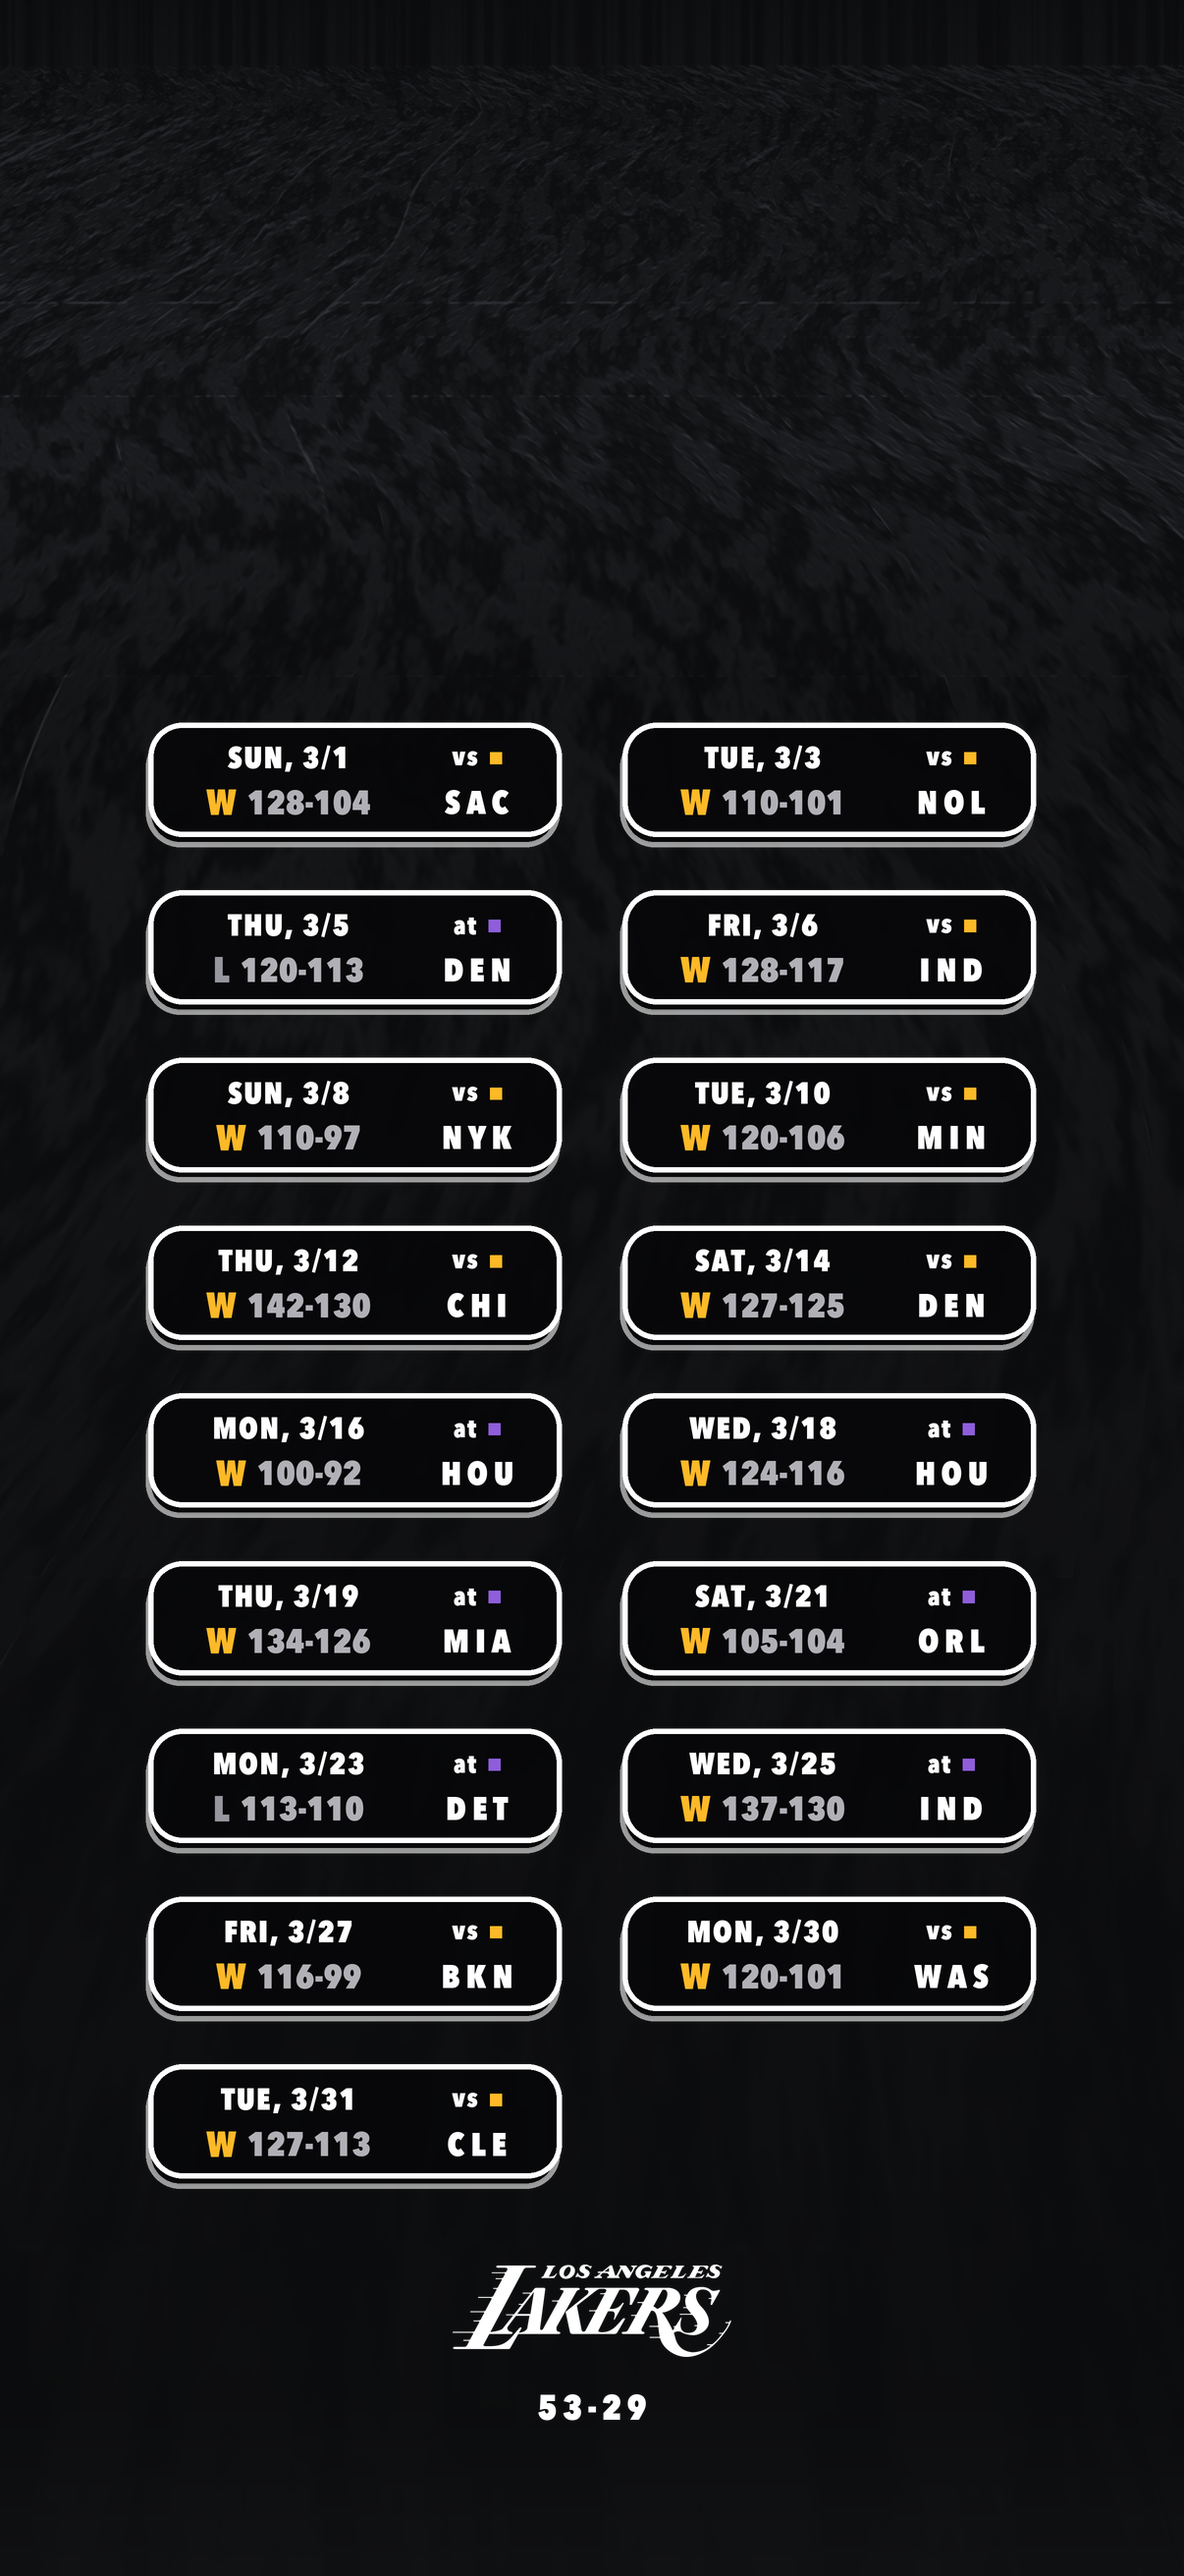
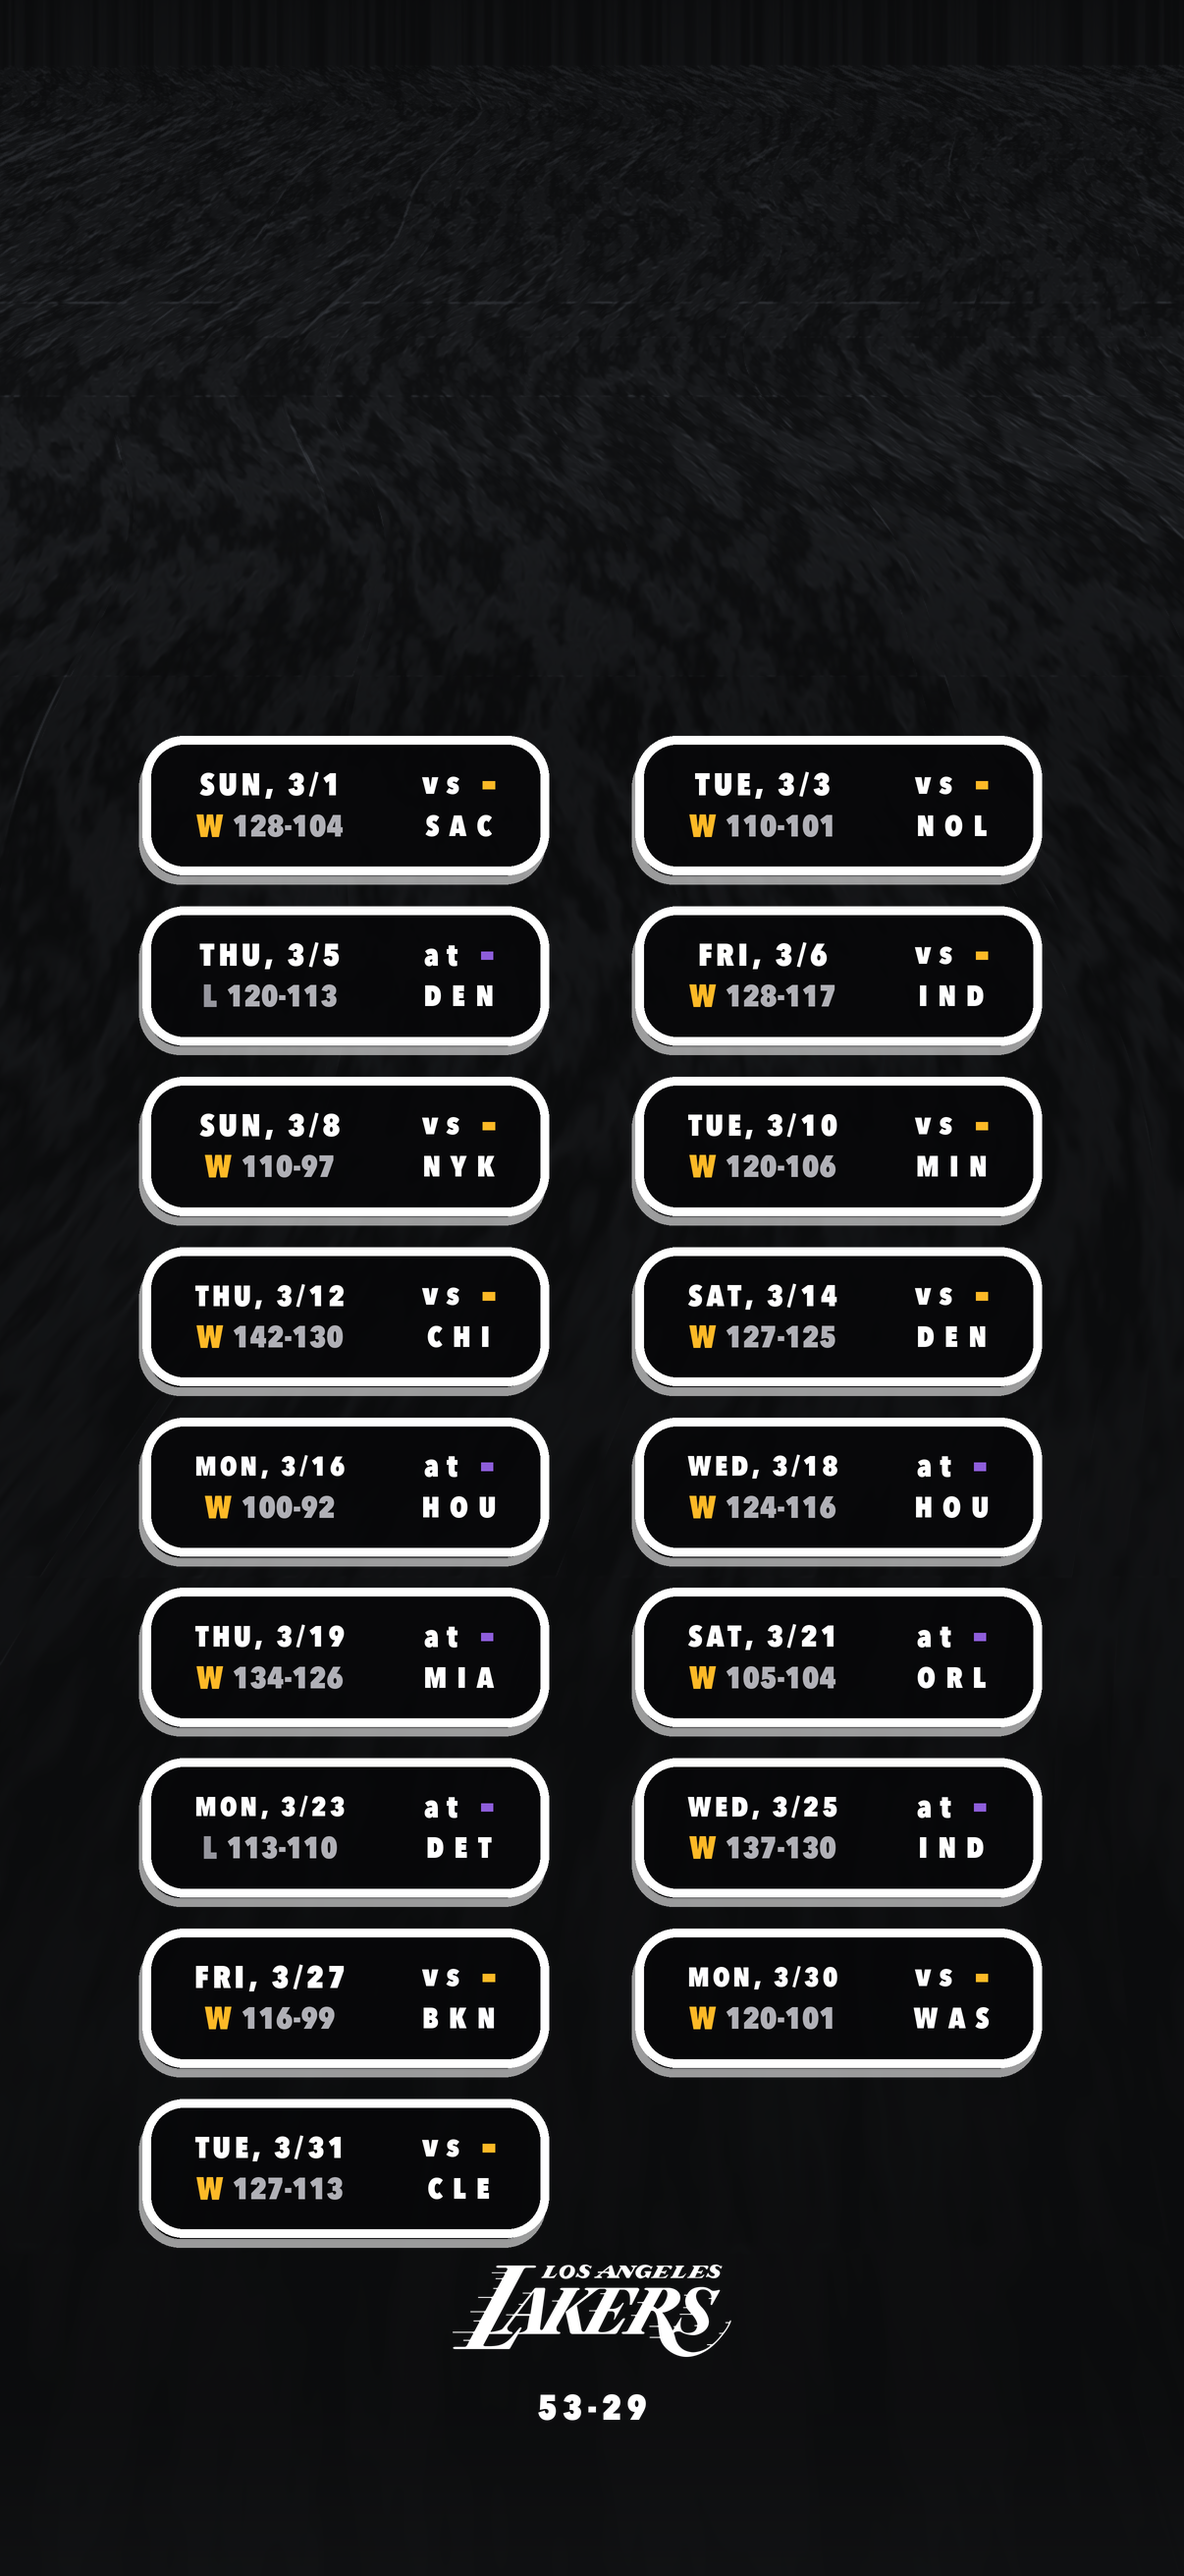
Calibrate layout against the reference lock screen
Chip geometry, type sizes, letter-spacing and swatch dimensions are now
measured from the 1206x2622 reference rather than estimated. The visible
change is chip height: 0.815 of row pitch instead of 0.68, which closes
the gaps and matches the original proportions.

Changed region(s): [[0.092, 0.278, 0.4909, 0.8959], [0.5216, 0.278, 0.8897, 0.8341]]

diff --git a/lakerscreen/config.py b/lakerscreen/config.py
@@ -54,31 +54,36 @@ class Layout:
     Derived from the reference mockup so the design scales to any iPhone.
     """
     # Vertical band the two-column grid may occupy (below clock, above footer).
-    grid_top: float = 0.270
-    grid_bottom: float = 0.856
+    # Every value below was measured off the reference lock screen at 1206x2622.
+    grid_top: float = 0.2796
+    grid_bottom: float = 0.8748
     # Horizontal geometry.
-    side_margin: float = 0.125          # fraction of width
-    column_gutter: float = 0.051        # fraction of width
+    side_margin: float = 0.1202         # fraction of width
+    column_gutter: float = 0.0730       # fraction of width
     # Chip proportions.
-    chip_height_ratio: float = 0.68     # of the per-row pitch
-    chip_max_height: float = 0.052      # of image height, caps chips in light months
+    max_pitch: float = 0.0744           # row-to-row spacing cap, of image height
+    chip_height_ratio: float = 0.815    # of the per-row pitch
+    chip_max_height: float = 0.0610     # of image height, caps chips in light months
     corner_radius_ratio: float = 0.30   # of chip height
-    border_ratio: float = 0.048         # of chip height
-    stack_dx: float = -0.018            # sticker-stack offset, of chip height
-    stack_dy: float = 0.090
-    # Chip interior. Contents are laid out in two zones, each centred on itself.
-    pad_x_ratio: float = 0.060          # of chip width
-    split: float = 0.635                # boundary between date zone and team zone
-    zone_gap: float = 0.030             # dead space at the boundary, of chip width
-    line1_y: float = 0.315              # vertical centres of the two text lines
-    line2_y: float = 0.700
-    date_size: float = 0.265            # font sizes, of chip height
-    time_size: float = 0.315
-    vs_size: float = 0.225
-    team_size: float = 0.290
-    dot_size: float = 0.105             # square swatch, of chip height
-    date_tracking: float = 0.050        # letter-spacing, as a fraction of font size
-    team_tracking: float = 0.170
+    border_ratio: float = 0.063         # of chip height
+    stack_dx: float = -0.025            # sticker-stack offset, of chip height
+    stack_dy: float = 0.069
+    # Chip interior. Contents sit in two zones, each centred on itself.
+    pad_x_ratio: float = 0.128          # of chip width
+    split: float = 0.592                # boundary between date zone and team zone
+    zone_gap: float = 0.184             # dead space at the boundary, of chip width
+    line1_y: float = 0.355              # vertical centres of the two text lines
+    line2_y: float = 0.645
+    date_size: float = 0.2248           # font sizes, of chip height
+    time_size: float = 0.2295
+    vs_size: float = 0.2216
+    team_size: float = 0.2103
+    dot_w: float = 0.085                # home/away swatch, of chip height
+    dot_h: float = 0.058
+    dot_gap: float = 0.170              # space between vs/at and the swatch
+    date_tracking: float = 0.120        # letter-spacing, as a fraction of font size
+    vs_tracking: float = 0.250
+    team_tracking: float = 0.344
     min_shrink: float = 0.62            # floor for auto-shrinking an overlong line
     # Footer.
     grid_bottom_pad: float = 0.0

diff --git a/lakerscreen/render.py b/lakerscreen/render.py
@@ -89,8 +89,8 @@ def _text_run(c: _Canvas, text: str, size: float, fill, tracking: float = 0.0,
             "tracking": tracking, "gap": gap, "w": c.text_width(text, font, tracking)}
 
 
-def _swatch_run(size: float, fill, gap: float = 0.0) -> Run:
-    return {"kind": "swatch", "size": size, "fill": fill, "gap": gap, "w": size}
+def _swatch_run(width: float, height: float, fill, gap: float = 0.0) -> Run:
+    return {"kind": "swatch", "h": height, "fill": fill, "gap": gap, "w": width}
 
 
 def _runs_width(runs: Sequence[Run]) -> float:
@@ -116,8 +116,8 @@ def _draw_runs(c: _Canvas, cx: float, cy: float, runs: Sequence[Run]) -> None:
             c.text((x, cy), r["text"], r["font"], r["fill"],
                    tracking=float(r["tracking"]), anchor="lc")
         else:
-            s = float(r["size"])
-            c.rect((x, cy - s / 2.0, x + s, cy + s / 2.0), fill=r["fill"])
+            hh, ww = float(r["h"]), float(r["w"])
+            c.rect((x, cy - hh / 2.0, x + ww, cy + hh / 2.0), fill=r["fill"])
         x += float(r["w"]) + (float(r["gap"]) if i < len(runs) - 1 else 0.0)
 
 
@@ -186,8 +186,8 @@ def _draw_chip(c: _Canvas, box, g: Game, cfg: Config) -> None:
     swatch = pal.gold if g.is_home else pal.purple
     _draw_runs(c, rcx, ya, _fit(
         lambda s: [_text_run(c, "vs" if g.is_home else "at", s, pal.text,
-                             tracking=s * 0.06, gap=h * 0.11),
-                   _swatch_run(h * lay.dot_size, swatch)],
+                             tracking=s * lay.vs_tracking, gap=h * lay.dot_gap),
+                   _swatch_run(h * lay.dot_w, h * lay.dot_h, swatch)],
         h * lay.vs_size, rw, floor))
     _draw_runs(c, rcx, yb, _fit(
         lambda s: [_text_run(c, g.opponent, s, pal.text, tracking=s * lay.team_tracking)],
@@ -270,7 +270,7 @@ def build(cfg: Config, ttl: Optional[int] = None
         rows = int(math.ceil(len(shown) / 2.0))
         band_top, band_bottom = H * lay.grid_top, H * lay.grid_bottom
         band = band_bottom - band_top
-        pitch = min(band / rows, H * 0.0753)      # never stretch light months
+        pitch = min(band / rows, H * lay.max_pitch)   # never stretch light months
         chip_h = min(pitch * lay.chip_height_ratio, H * lay.chip_max_height)
         start_y = band_top + (band - pitch * rows) / 2.0
 
